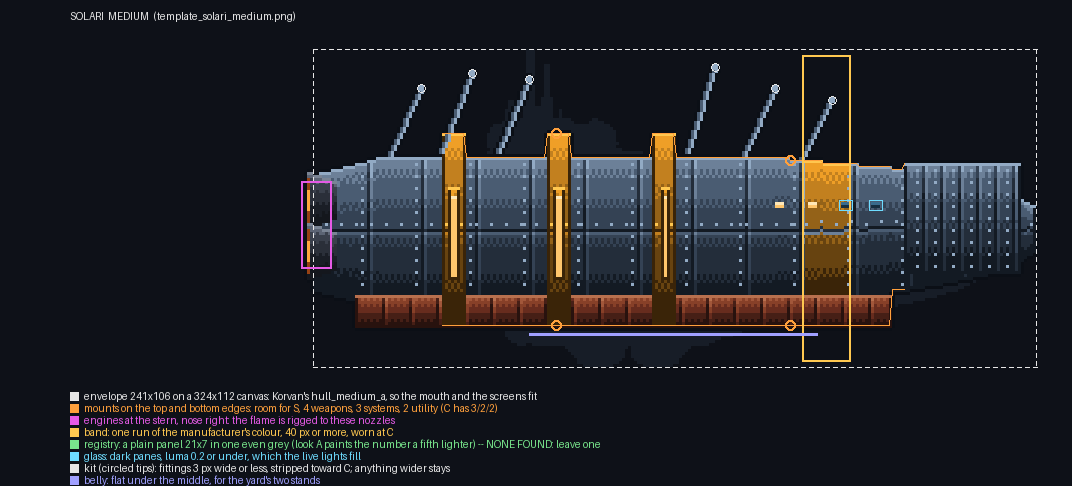
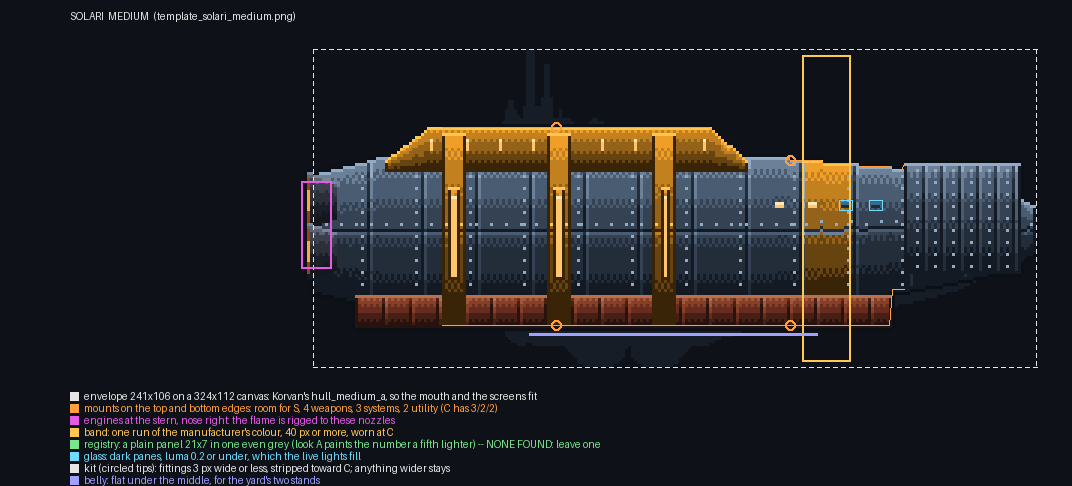
Hull templates: Solari's radiator crest replaces the aerials (Jon's look B)
Claude-Session: https://claude.ai/code/session_01FQemMvme1wfvjCSMpMkDgS

diff --git a/tkg/art/tools/hull_template.py b/tkg/art/tools/hull_template.py
@@ -139,31 +139,37 @@ def rings(x0, x1, top, bot, n):
     return out
 
 
+def crest(x0, x1, top, n):
+    """Solari's radiator crest: a brass ridge along the spine over the reactor
+    rings, glowing louvres in its side. It stands where the aerials stood (Jon,
+    Oct 15: "the straight fins look bad", then look B)."""
+    return [P(('prof', [(x0 - .02, top + .01, top + .04), (x0 + .04, top - .09, top + .04),
+                        (x1 - .01, top - .09, top + .04), (x1 + .04, top + .01, top + .04)]), 'acc',
+              rivets=True, ports=[(.25, .08, .92, n, 1, 4, n)])]
+
+
 SPECS = {
  'solari': {
   'light': {'parts': [
      P(('prof', [(.44, .47, .65), (.8, .51, .61), (1, .55, .57)]), seams=20, rivets=True, band=(.62, .70)),
      P(('prof', [(.04, .38, .80), (.28, .34, .84), (.48, .38, .80), (.60, .45, .68)]), seams=14, rivets=True, belt=.55,
        ports=[(.32, .45, .9, 3, 3, 2, 1)], hatch=[(.6, .6, .85, .85)]),
-     P(('rect', .06, .74, .48, .86), 'brick', seams=7)] + rings(.12, .44, .34, .84, 3),
-   'kit': [[(.08, .38), (.13, .10)], [(.14, .36), (.19, .06)], [(.2, .34), (.25, .08)], [(.26, .34), (.31, .14)],
-           [(.62, .50), (.97, .56)], [(.41, .30), (.42, .18)]],
+     P(('rect', .06, .74, .48, .86), 'brick', seams=7)] + crest(.12, .44, .34, 6) + rings(.12, .44, .34, .84, 3),
+   'kit': [],
    'noz': [(.50, .12), (.68, .12)]},
   'medium': {'parts': [
      P(('prof', [(0, .40, .76), (.1, .34, .82), (.62, .34, .82), (.82, .38, .76), (.96, .44, .70), (1, .50, .64)]), seams=18,
        rivets=True, belt=.48, ports=[(.3, .62, .8, 4, 3, 2, 2)], band=(.68, .74)),
      P(('rect', .82, .36, .98, .70), 'steel', seams=6, rivets=True),
-     P(('rect', .06, .78, .80, .88), 'brick', seams=9)] + rings(.12, .56, .34, .82, 3),
-   'kit': [[(.11, .33), (.15, .12)], [(.18, .32), (.22, .08)], [(.26, .32), (.3, .1)], [(.52, .32), (.56, .06)],
-           [(.6, .33), (.64, .12)], [(.68, .34), (.72, .16)]],
+     P(('rect', .06, .78, .80, .88), 'brick', seams=9)] + crest(.12, .56, .34, 9) + rings(.12, .56, .34, .82, 3),
+   'kit': [],
    'noz': [(.48, .12), (.64, .12)]},
   'heavy': {'parts': [
      P(('prof', [(0, .40, .82), (.08, .34, .90), (.62, .34, .92), (.86, .40, .82), (1, .56, .66)]), seams=20, rivets=True,
        belt=.5, ports=[(.28, .66, .84, 4, 3, 2, 2)], band=(.76, .82), hatch=[(.06, .6, .14, .8)]),
      P(('rect', .02, .82, .86, .94), 'brick', seams=10),
-     P(('poly', [(.92, .44), (1, .56), (1, .66), (.92, .70)]), 'gun')] + rings(.26, .62, .34, .92, 4),
-   'kit': [[(.18, .32), (.21, .02)], [(.23, .32), (.26, .0)], [(.4, .22), (.42, .0)], [(.48, .2), (.5, .02)],
-           [(.58, .3), (.61, .06)], [(.64, .32), (.67, .1)], [(.70, .33), (.73, .14)]],
+     P(('poly', [(.92, .44), (1, .56), (1, .66), (.92, .70)]), 'gun')] + crest(.26, .62, .34, 9) + rings(.26, .62, .34, .92, 4),
+   'kit': [],
    'noz': [(.50, .14), (.72, .14)]},
  },
  'probate': {
